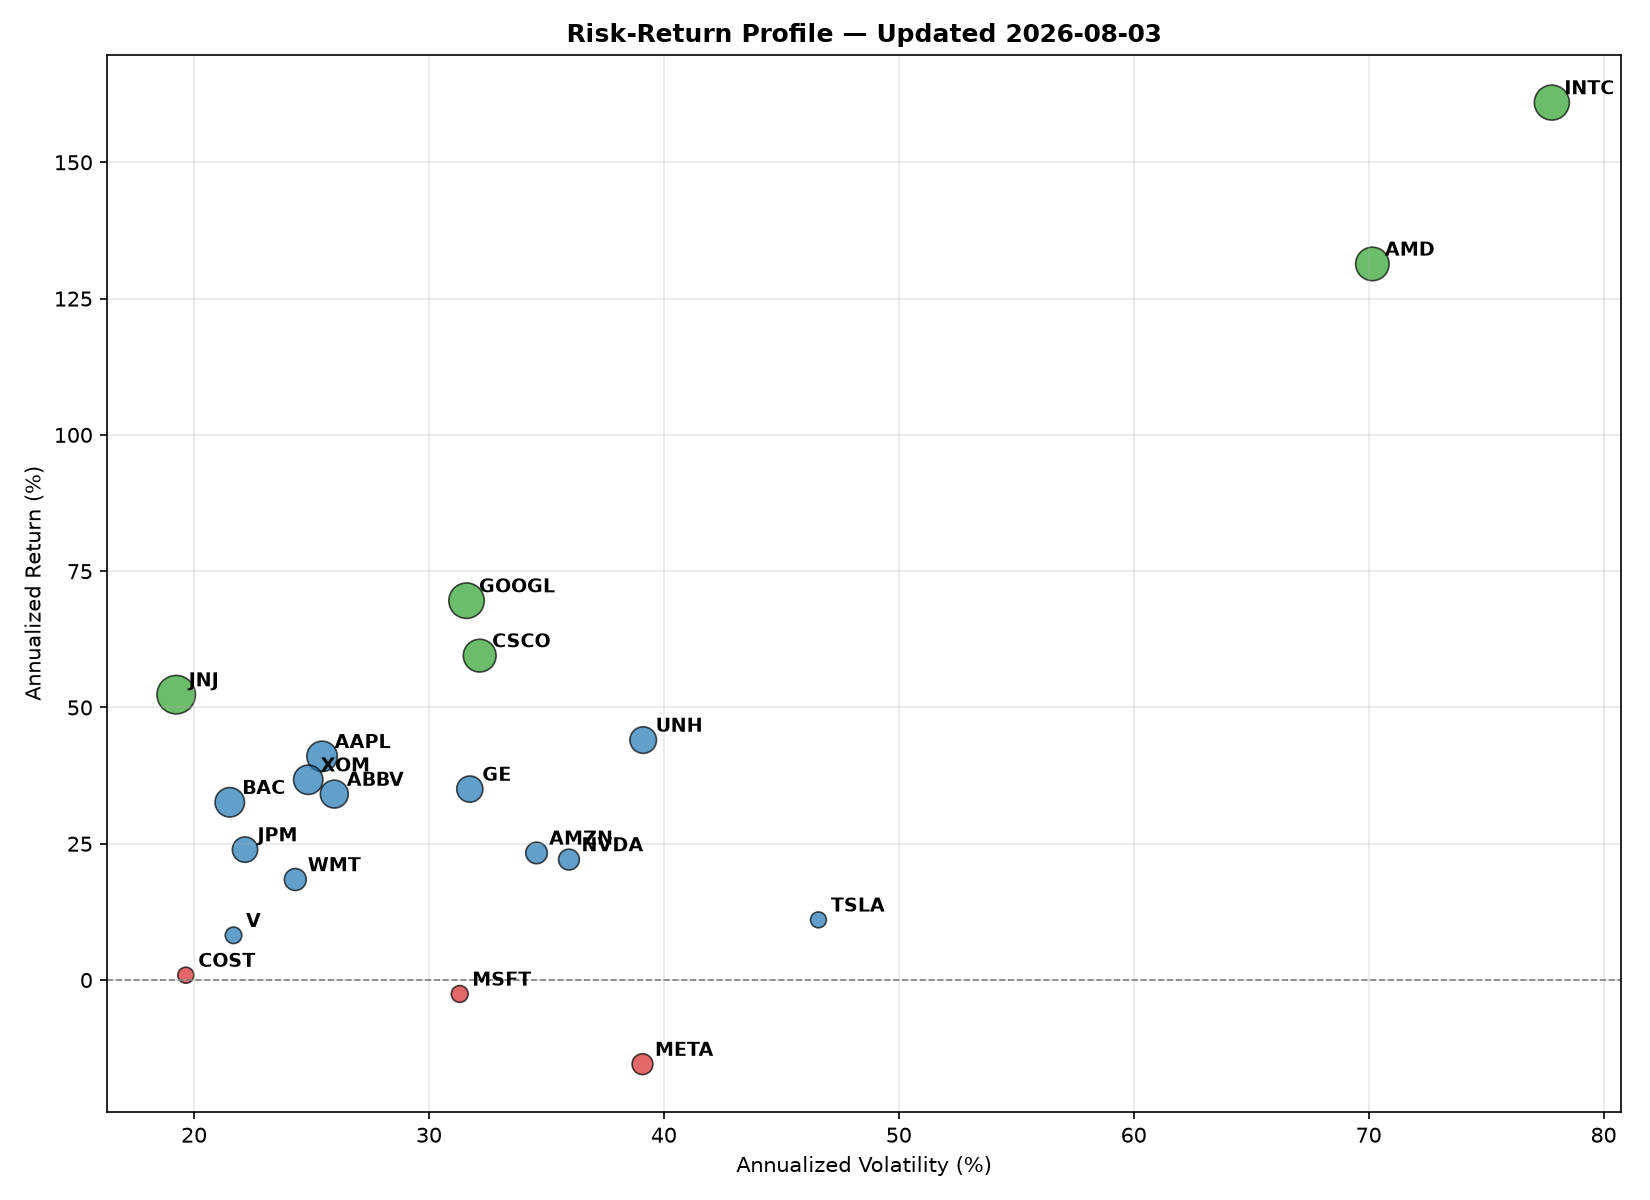
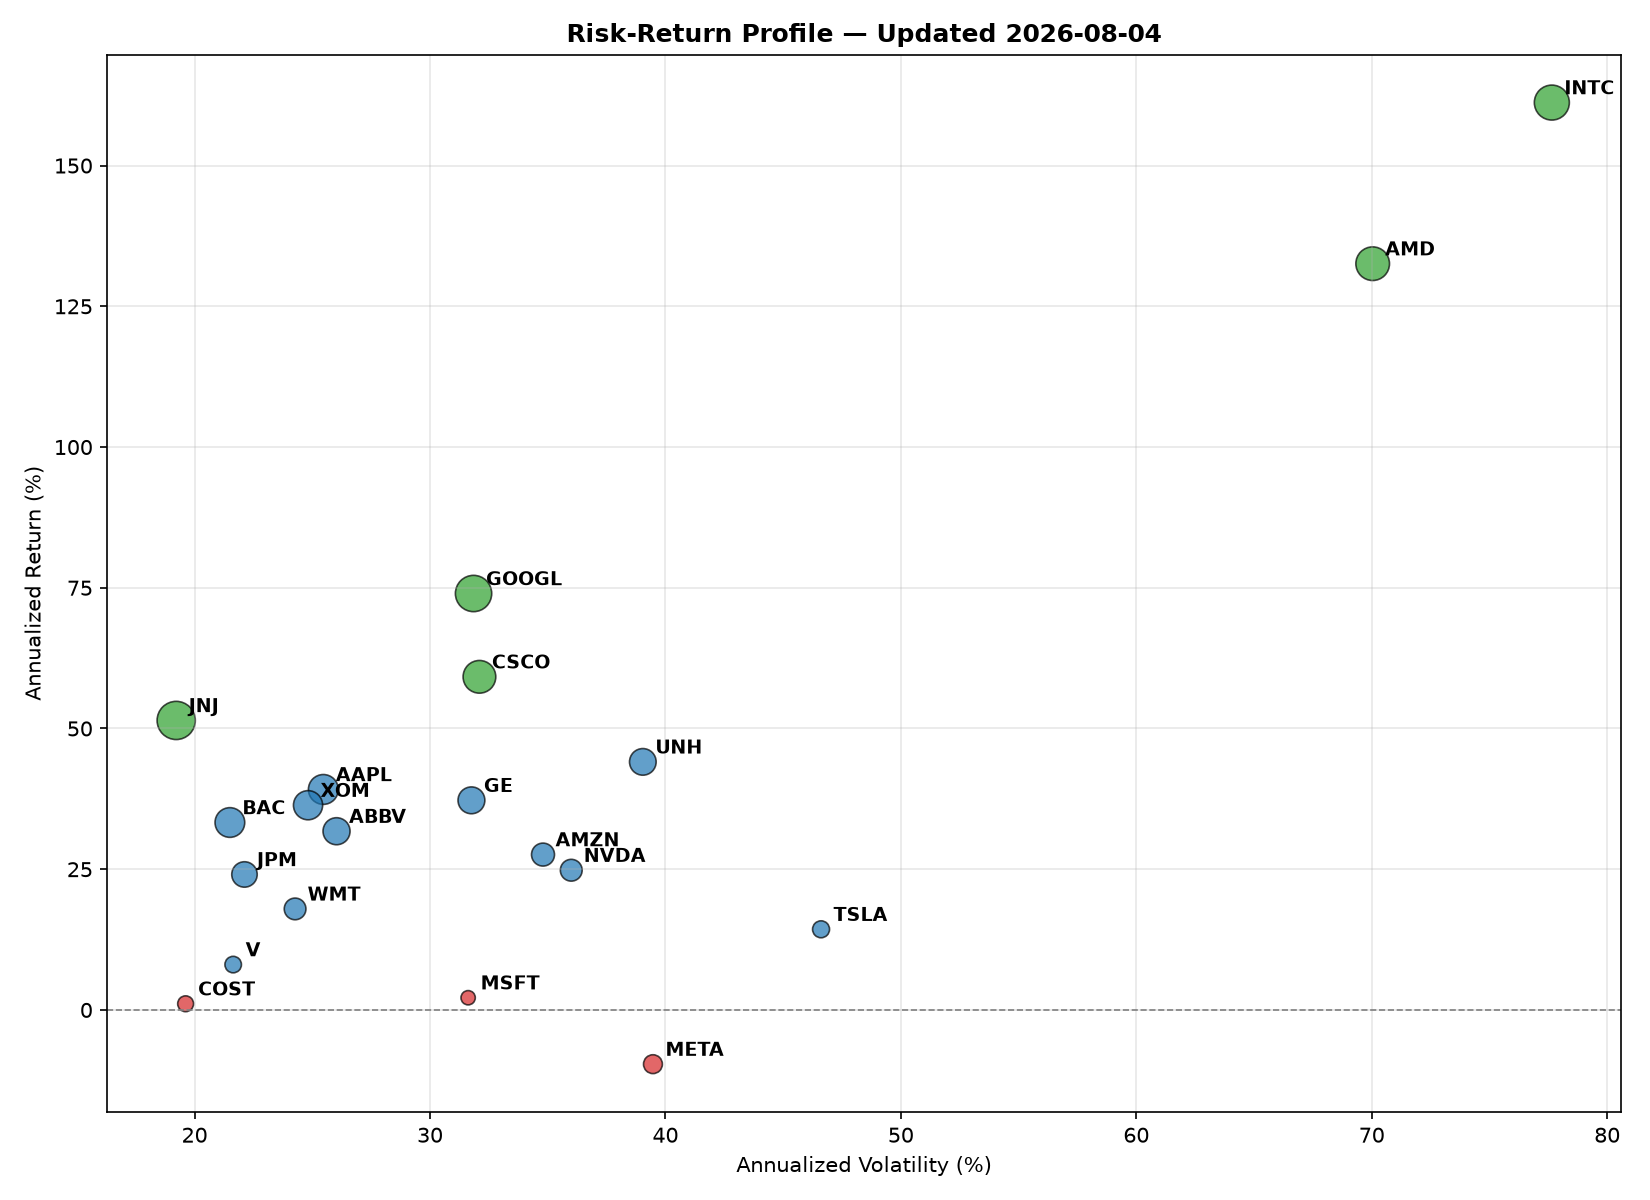
Automated daily update: prices, metrics, and charts

diff --git a/SNAPSHOT.md b/SNAPSHOT.md
@@ -1,9 +1,9 @@
-# Daily Risk Snapshot — 2026-07-31
+# Daily Risk Snapshot — 2026-08-03
 
-**Best mover:** AMZN (+15.32%)
-**Worst mover:** AAPL (-7.35%)
-**Top risk-adjusted performer (trailing window):** JNJ (Sharpe 2.51)
+**Best mover:** META (+6.02%)
+**Worst mover:** ABBV (-2.33%)
+**Top risk-adjusted performer (trailing window):** JNJ (Sharpe 2.47)
 
-**⚠ Newly anomalous today:** AAPL, GOOGL — return moved more than 2 std. deviations from its own 20-day trailing mean.
+**No new anomaly flags today.**
 
 _Auto-generated by `scripts/daily_snapshot.py` via GitHub Actions._
